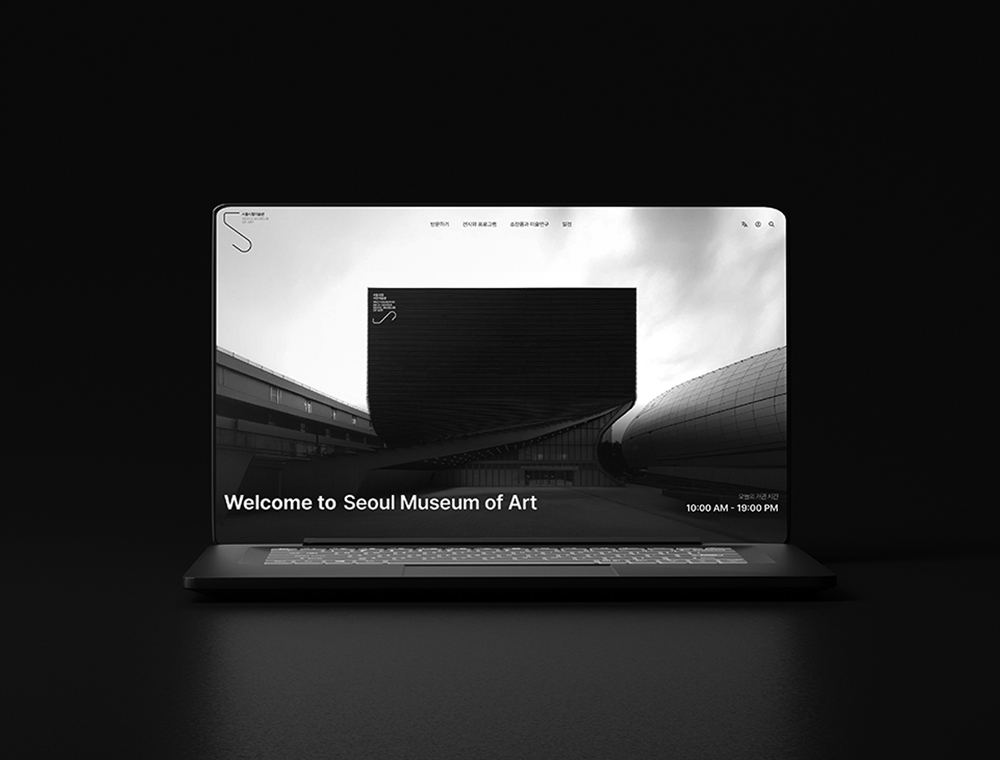
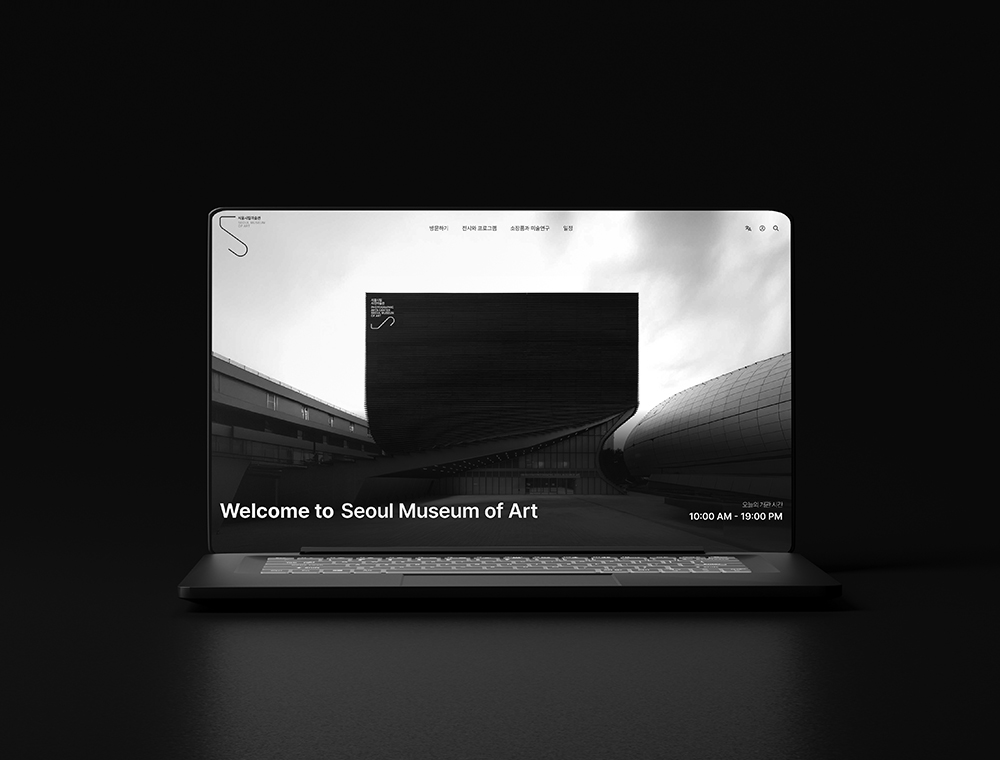
modal

Changed region(s): [[0.186, 0.6355, 0.806, 0.8171], [0.186, 0.2724, 0.806, 0.6053], [0.341, 0.3632, 0.651, 0.4539]]

diff --git a/src/css/pages/scss/modal.scss b/src/css/pages/scss/modal.scss
@@ -110,6 +110,11 @@
       word-break: keep-all;
     }
   }
+  .label_text {
+    display: inline-block;
+    width: 80px;
+    text-transform: uppercase;
+  }
 
   .site_view,
   .notion_view {
@@ -153,11 +158,11 @@
         width: 60px;
       }
       .img_box{
-        margin-top: 80px;
+        margin-top: 40px;
       }
     }
     #site_label{
-      margin-top: 40px;
+      margin-top: 60px;
     }
     #label_notion{
       padding-top: 2px;
@@ -200,31 +205,16 @@
       margin-top: 20px;
     }
     .img_box{
-      margin-top: 100px;
+      margin-top: 50px;
     }
     #project_desc{
       max-height: 600px;
     }
     #site_label{
-      margin-top: 20px;
+      margin-top: 80px;
     }
     #label_notion{
       padding-top: 4px;
     }
   }
 }
-// @media only screen and (min-width: 900px) {
-//   #modal {
-//     .modal_title_wrap {
-//       grid-template-columns: 3fr 1fr;
-//       gap: 5px;
-//       margin-bottom: 20px;
-//     }
-//     .modal_title {
-//       font-size: 42px;
-//       br {
-//         display: none;
-//       }
-//     }
-//   }
-// }

diff --git a/src/js/modal.js b/src/js/modal.js
@@ -12,7 +12,7 @@ export function modal() {
     },
     {
       year: "2025",
-      tag: "#",
+      tag: "#모드 체인지",
       title: "서울시립미술관 <br>사이트 리디자인",
       text: "서울시립미술관 웹사이트를 리디자인하며, 기존 디자인의 급격한 배경 색 전환과 시각 정보의 평면성을 문제로 인식했습니다. 사용자가 다크/라이트 모드를 직접 전환할 수 있도록 모드 전환 기능을 구현해, 갑작스러운 컬러 변화에 따른 시각적 피로를 줄였습니다. 또한 텍스트의 크기, 굵기, 색상 등을 조절해 정보의 우선순위를 시각적으로 드러내는 구조를 설계했습니다. 결과적으로 사용성과 가독성을 모두 고려한 디자인을 구현했습니다.",
       img: "https://dain6415.github.io/my_pf/src/img/project/sema.jpg",

diff --git a/src/css/pages/modal.css b/src/css/pages/modal.css
@@ -109,6 +109,11 @@
 #modal #project_desc .text {
   word-break: keep-all;
 }
+#modal .label_text {
+  display: inline-block;
+  width: 80px;
+  text-transform: uppercase;
+}
 #modal .site_view,
 #modal .notion_view {
   color: var(--main-color);
@@ -151,10 +156,10 @@
     width: 60px;
   }
   #modal #project_desc .img_box {
-    margin-top: 80px;
+    margin-top: 40px;
   }
   #modal #site_label {
-    margin-top: 40px;
+    margin-top: 60px;
   }
   #modal #label_notion {
     padding-top: 2px;
@@ -194,13 +199,13 @@
     margin-top: 20px;
   }
   #modal .img_box {
-    margin-top: 100px;
+    margin-top: 50px;
   }
   #modal #project_desc {
     max-height: 600px;
   }
   #modal #site_label {
-    margin-top: 20px;
+    margin-top: 80px;
   }
   #modal #label_notion {
     padding-top: 4px;
